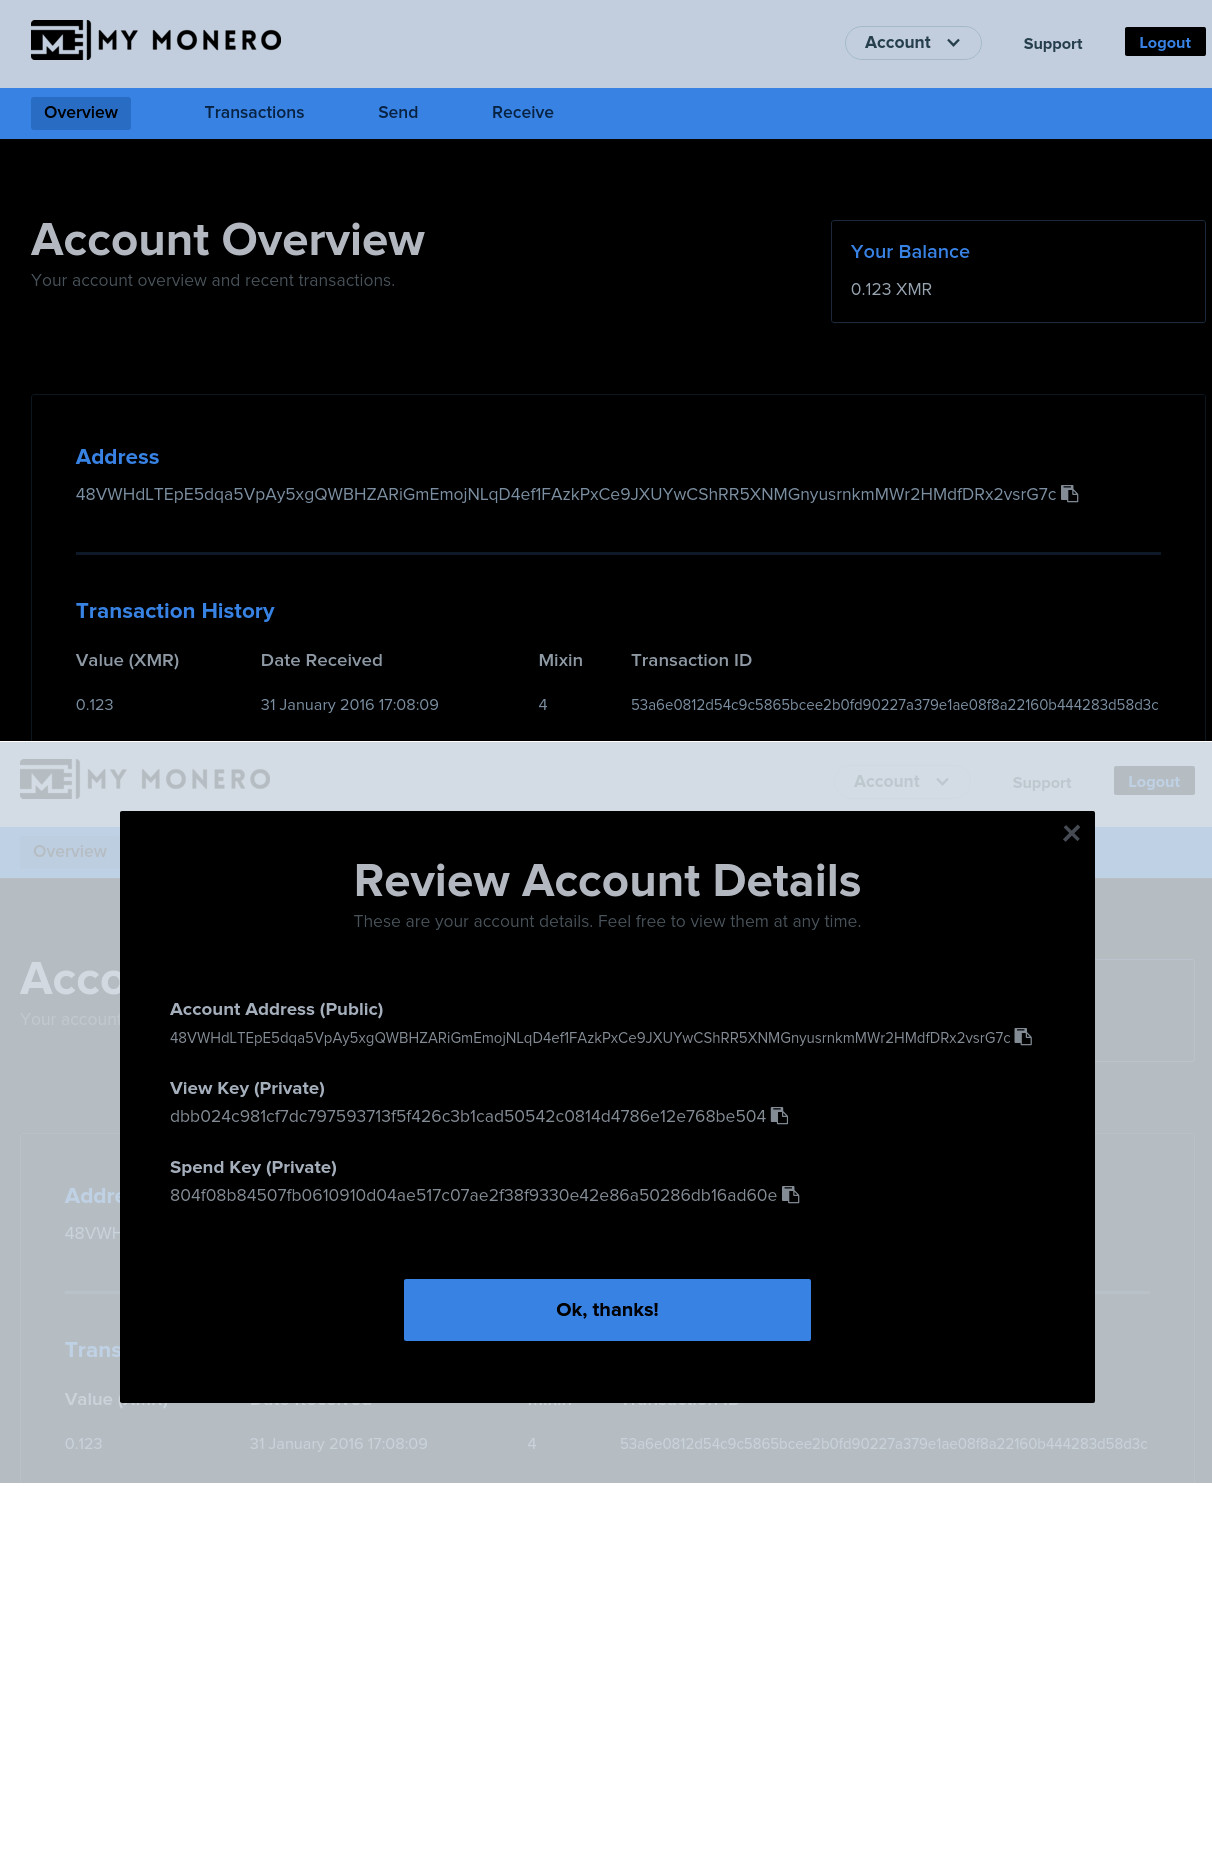
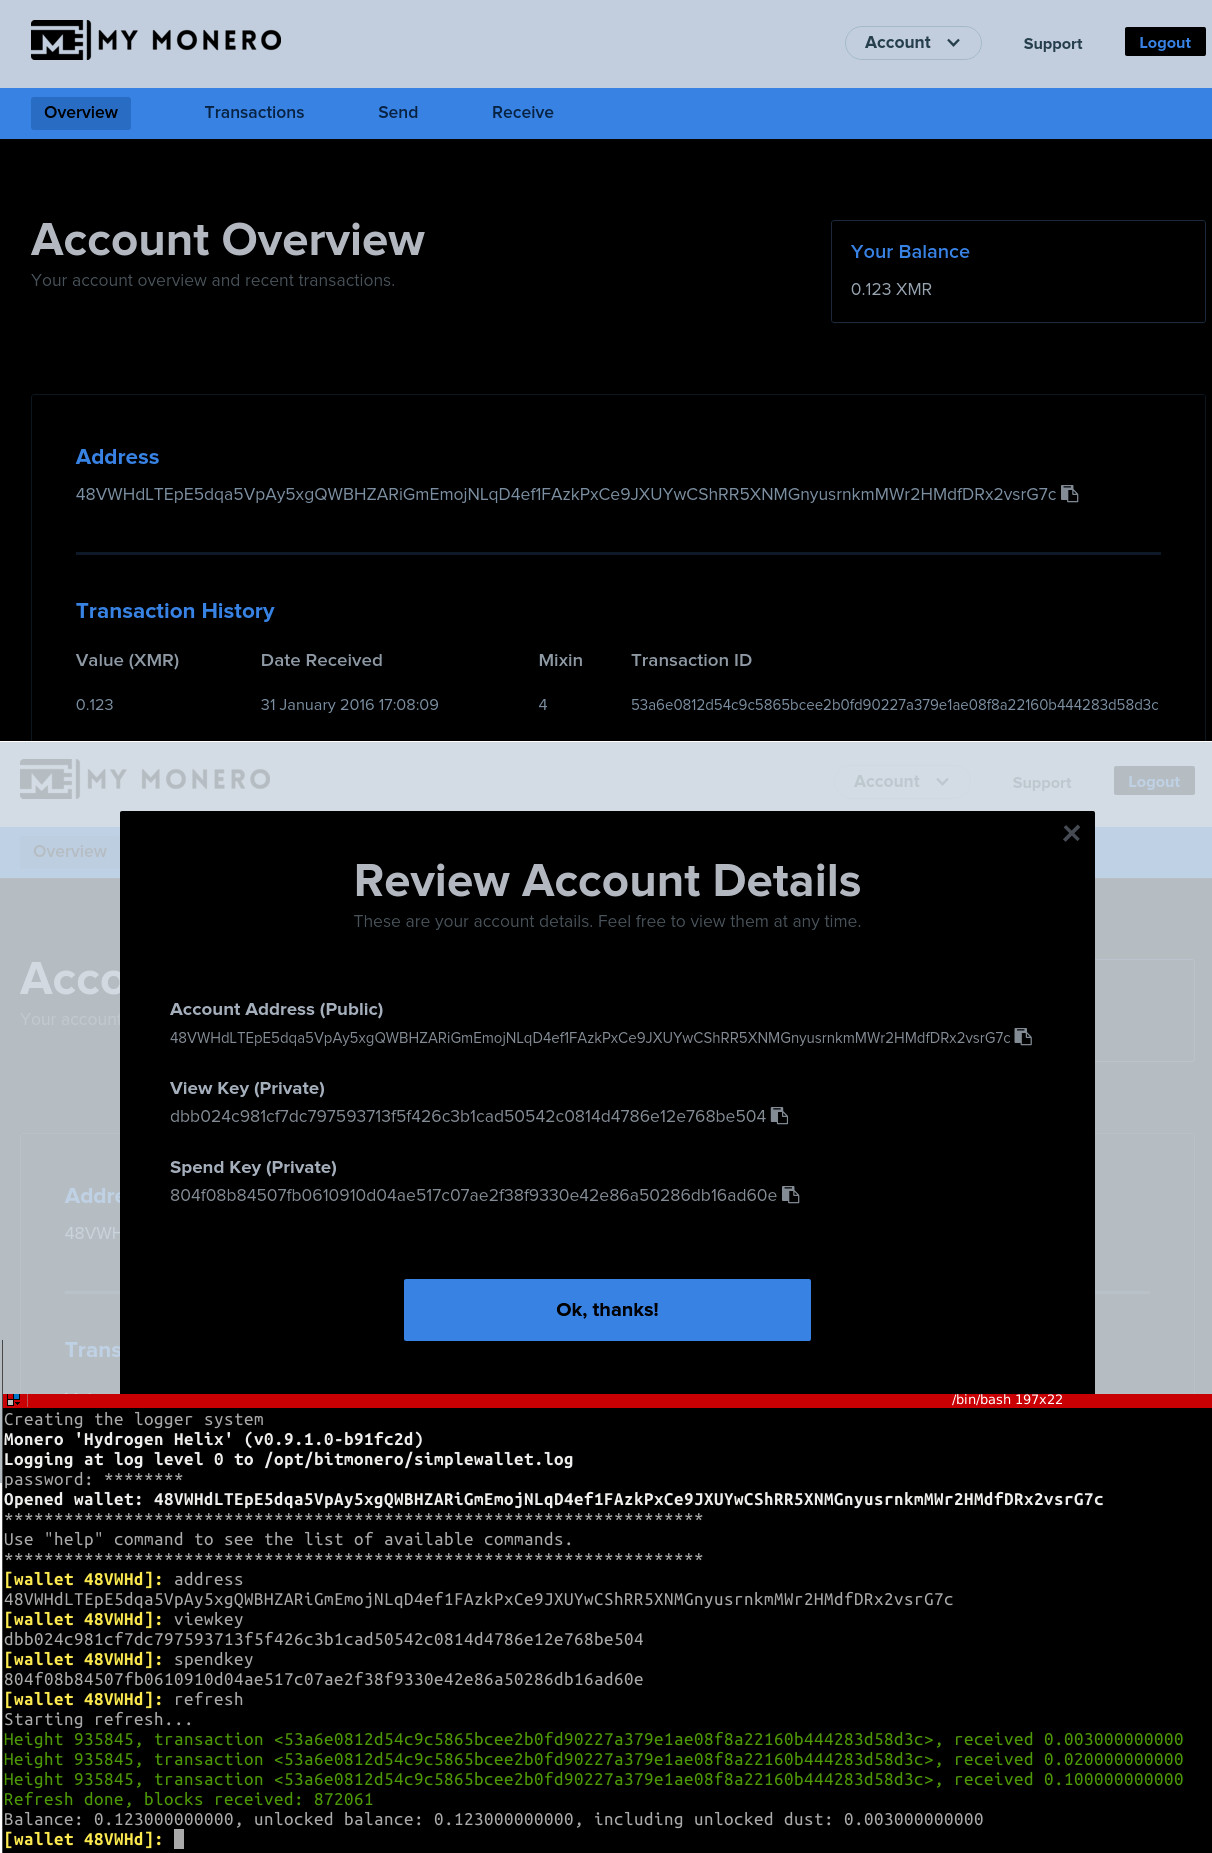
Example 1 added

Changed region(s): [[0.0, 0.7383, 1.0, 1.0]]

diff --git a/README.md b/README.md
@@ -26,6 +26,198 @@ Instruction for Monero 0.9 compilation and setup of Monero's header files and li
 ## C++: main.cpp
 
 ```c++
+int main(int ac, const char* av[]) {
+
+    // get command line options
+    xmreg::CmdLineOptions opts {ac, av};
+
+    auto help_opt = opts.get_option<bool>("help");
+
+    // if help was chosen, display help text and finish
+    if (*help_opt)
+    {
+        return 0;
+    }
+
+    // default language for the mnemonic
+    // representation of the private spend key
+    string language {"English"};
+
+    // get 13 word mnemonic seed from MyMonero
+    auto mnemonic_opt = opts.get_option<string>("mnemonic");
+    auto wallet_file_opt = opts.get_option<string>("wallet-file");
+    auto password_opt = opts.get_option<string>("password");
+
+    // get the program command line options, or
+    // some default values for quick check
+    string mnemonic_str = mnemonic_opt
+                          ? *mnemonic_opt
+                          : "slid otherwise jeers lurk swung tawny zodiac tusks twang cajun swagger peaches tawny";
+
+
+    // simplewallet wallet file name, e.g., mmwallet.bin
+    // actually we do not directy create this file. we
+    // create a file *.keys containing the address and the private keys
+    string wallet_file = wallet_file_opt
+                         ? *wallet_file_opt
+                         : xmreg::get_home_folder() + string("mmwallet.bin");
+
+    // name of the keys files
+    string keys_file_name = wallet_file + string(".keys");
+
+    string password = password_opt ? *password_opt : "password";
+
+    cout << "\n"
+         << "Mnemonic seed    : " << mnemonic_str << endl;
+
+
+    // change the MyMonero 13 word mnemonic seed
+    // to its 16 byte hexadecimal version
+    xmreg::secret_key16 hexadecimal_seed;
+
+    // use modified words_to_bytes function.
+    xmreg::ElectrumWords::words_to_bytes(mnemonic_str, hexadecimal_seed, language);
+
+    cout << "\n"
+         << "Hexadecimal seed : " << hexadecimal_seed << endl;
+
+
+    // take the 16 byte hexadecimal_seed, and
+    // and perform Keccak hash on it. It will
+    // produce 32 byte hash.
+    crypto::hash hash_of_seed;
+
+    cn_fast_hash(hexadecimal_seed.data, sizeof(hexadecimal_seed.data), hash_of_seed);
+
+    cout << "\n"
+         << "Hash of seed     : " << hash_of_seed<< endl;
+
+
+    // having the hashed seed, we can proceed
+    // with generation of private and public spend keys.
+    // the keccak hash of the seed is used as a seed
+    // to generate the spend keys.
+    crypto::public_key public_spend_key;
+    crypto::secret_key private_spend_key;
+
+    crypto::generate_keys(public_spend_key, private_spend_key,
+                          xmreg::get_key_from_hash<crypto::secret_key>(hash_of_seed),
+                          true);
+
+    cout << "\n"
+         << "Private spend key: " << private_spend_key << "\n"
+         << "Public spend key : " << public_spend_key  << endl;
+
+    // now we get private and public view keys.
+    // to do this, we keccak hash the hash_of_seed again
+    crypto::hash hash_of_hash;
+    cn_fast_hash(hash_of_seed.data, sizeof(hash_of_seed.data), hash_of_hash);
+
+    crypto::public_key public_view_key;
+    crypto::secret_key private_view_key;
+
+
+    crypto::generate_keys(public_view_key, private_view_key,
+                          xmreg::get_key_from_hash<crypto::secret_key>(hash_of_hash),
+                          true);
+
+    cout << "\n"
+         << "Private view key : " << private_view_key << "\n"
+         << "Public view key  : " << public_view_key  << endl;
+
+
+
+    // having all keys, we can get the corresponding monero address
+    cryptonote::account_public_address address {public_spend_key, public_view_key};
+
+
+    cout << "\n"
+         << "Monero address   : " << address << endl;
+
+
+    // Once we have all keys and address from the mnemonic seed
+    // we can proceed to generating wallet *.keys file
+    // that can be read by simplewallet
+
+
+    // we start this by creating instance of simple_account class
+    // and populate with the address, and private spend and view keys
+    // obtained in the previous steps
+    xmreg::simple_account account;
+
+    account.create_from_keys(address, private_spend_key, private_view_key);
+
+    std::string account_data;
+
+
+    if (!epee::serialization::store_t_to_binary(account, account_data))
+    {
+        cerr << "Something went wrong with serializing simple_account instance" << endl;
+        return 1;
+    }
+
+    rapidjson::Document json;
+    json.SetObject();
+    rapidjson::Value value(rapidjson::kStringType);
+
+
+    value.SetString(account_data.c_str(), account_data.length());
+
+    json.AddMember("key_data", value, json.GetAllocator());
+
+    tools::wallet2::keys_file_data keys_file_data
+            = boost::value_initialized<tools::wallet2::keys_file_data>();
+
+    // Serialize the JSON object
+    rapidjson::StringBuffer buffer;
+    rapidjson::Writer<rapidjson::StringBuffer> writer(buffer);
+    json.Accept(writer);
+    account_data = buffer.GetString();
+
+    // Encrypt the entire JSON object.
+    crypto::chacha8_key key;
+    crypto::generate_chacha8_key(password, key);
+    std::string cipher;
+    cipher.resize(account_data.size());
+    keys_file_data.iv = crypto::rand<crypto::chacha8_iv>();
+    crypto::chacha8(account_data.data(), account_data.size(),
+                    key, keys_file_data.iv, &cipher[0]);
+    keys_file_data.account_data = cipher;
+
+    std::string buf;
+
+    // serialize key file data
+    if (!serialization::dump_binary(keys_file_data, buf))
+    {
+        cerr << "Something went wrong with serializing keys_file_data" << endl;
+        return 1;
+    }
+
+    // save serialized keys into the wallet file
+    if (!epee::file_io_utils::save_string_to_file(keys_file_name, buf))
+    {
+        cerr << "Something went wrong with writing file: " << keys_file_name << endl;
+        return 1;
+    }
+
+    cout << "\nKeys file \"" << keys_file_name << "\" created." << endl;
+
+    cout << "\nStart simplewallet using: \n"
+         << "/opt/bitmonero/simplewallet --wallet-file " << keys_file_name
+         << endl;
+
+    cout << "\nPassord given is: \"" << password <<"\"" << endl;
+
+    cout << "\nUse 'refresh' command in the simplewallet "
+                    "to scan the blockchain "
+                    "for your transactions. "
+         << endl;
+
+
+    cout << "\nEnd of program." << endl;
+
+    return 0;
+}
 ```
 
 ## Program options
@@ -38,7 +230,6 @@ mymonero-keys, generate simplewallet keys file based on MyMonero's 13 world mnem
   -w [ --wallet-file ] arg      output wallet file, e.g. mmwallet.bin
   -p [ --password ] arg         wallet password
 ```
-
 
 ## Example 1
 
@@ -78,6 +269,9 @@ Use 'refresh' command in the simplewallet to scan the blockchain for your transa
 The comparison of MyMonero website with the wallet generated is shown on the following screenshot:
 
 ![After](https://raw.githubusercontent.com/moneroexamples/mymonero-simplewallet/master/img/example_01.jpg)
+
+As can be seen on the screenshot, address, private view and spend keys, as well as balance of the
+`simplewallet` wallet generated agree with that of MyMonero website.
 
 ## How can you help?
 
